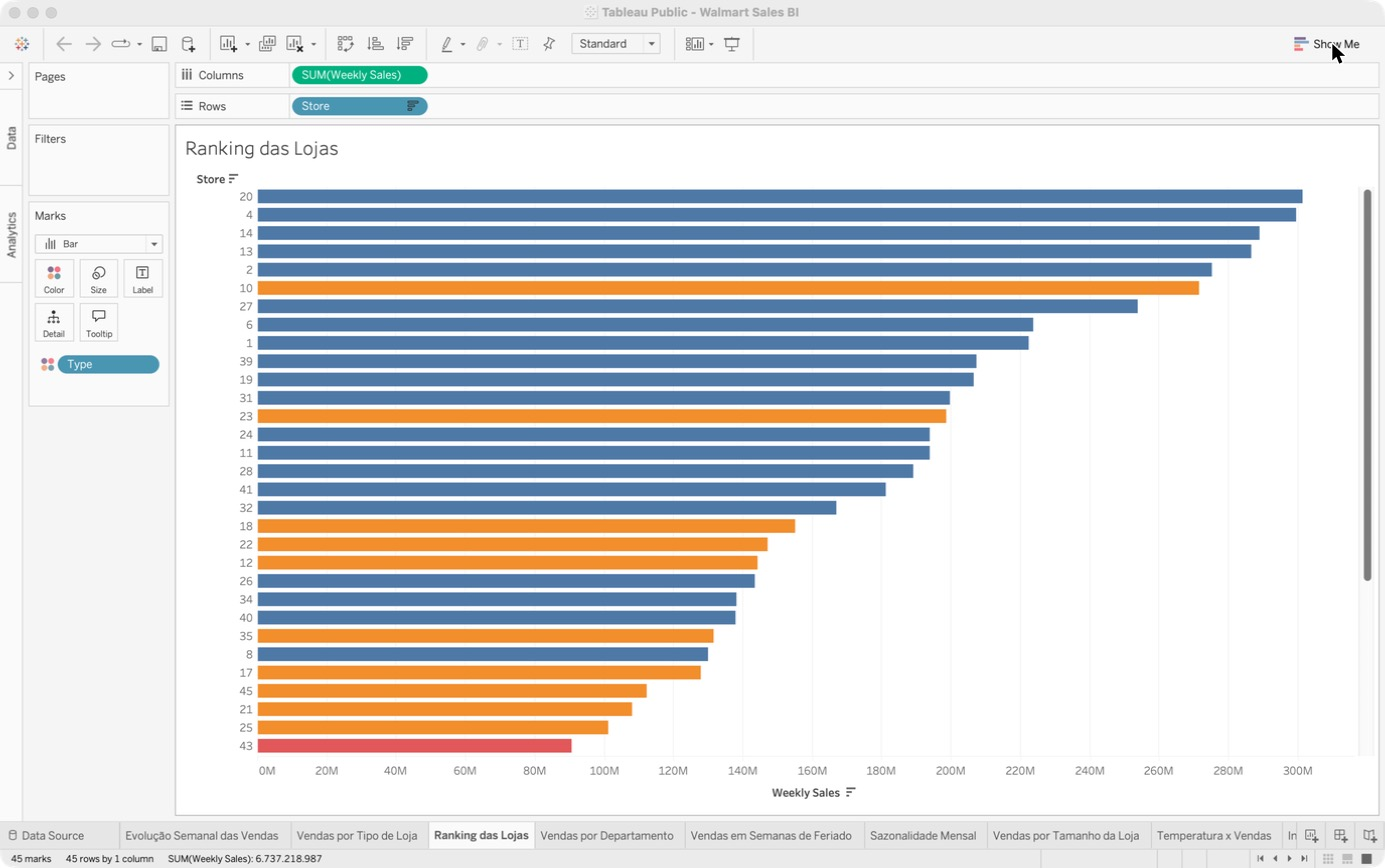
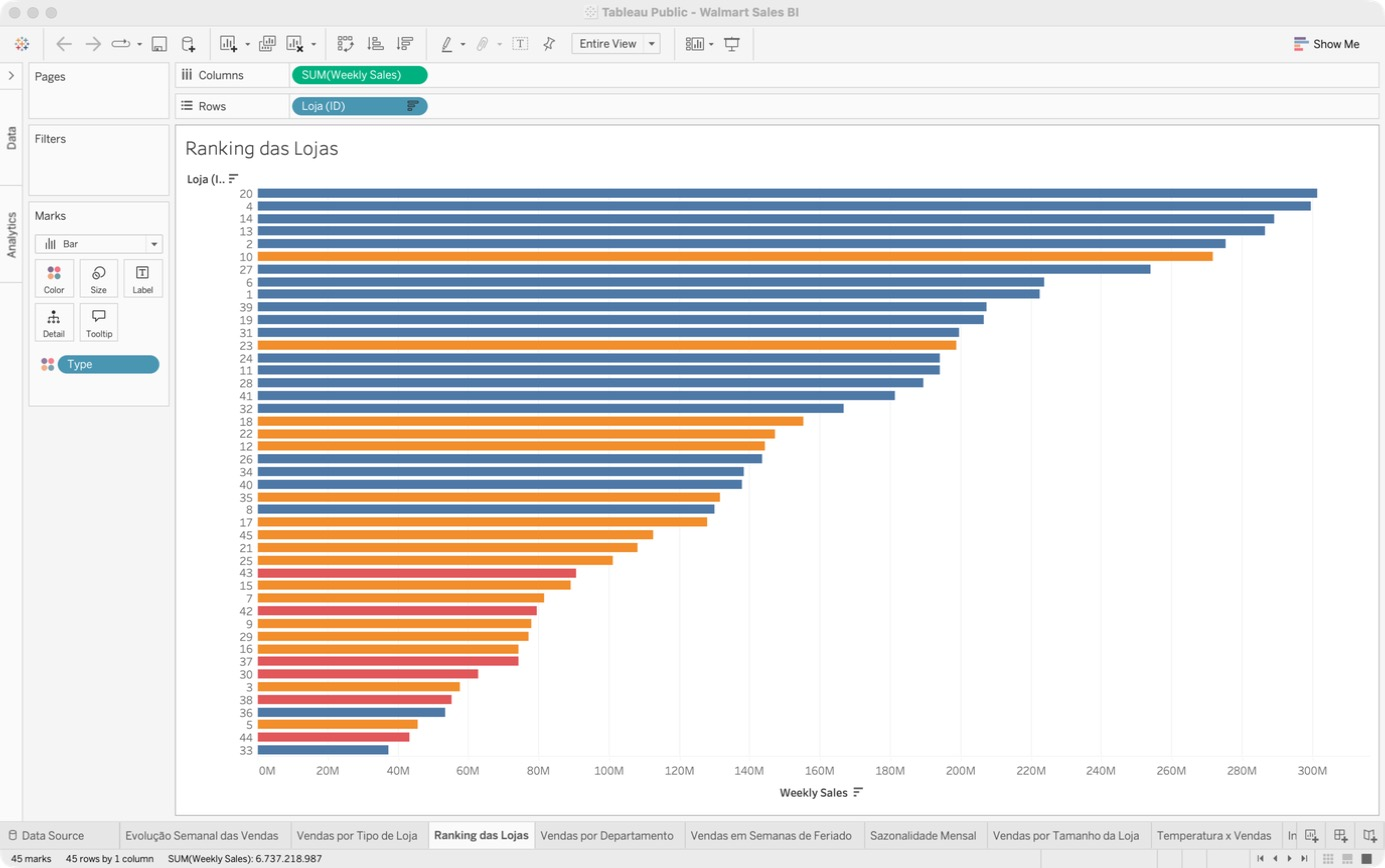
Feedback do grupo: IDs nos eixos, ranking inteiro na tela e tamanho em m²
- Store e Dept passam a aparecer como 'Loja (ID)' e 'Departamento (ID)'
- Ranking das Lojas em Entire View: as 45 lojas cabem sem rolagem
- Tamanho da loja convertido de pés² para m² (campo calculado)
- gerar_planilhas.py agora recria as planilhas geradas a cada execução
- prints e insights atualizados

diff --git a/docs/insights.md b/docs/insights.md
@@ -3,11 +3,13 @@
 Na mesma ordem do documento de insights do grupo, para colar lá. Os números vêm de `analises/explorar.py` e batem com as planilhas do Tableau.
 
 ## Ranking das lojas
+- O número de cada loja é o **ID** dela na base, não a posição no ranking. O gráfico ordena as 45 lojas por vendas.
 - A loja 20 (US$ 301 mi) vende **8,1 vezes** mais que a loja 33 (US$ 37 mi).
-- O top 5 (lojas 20, 4, 14, 13 e 2) é todo de lojas **tipo A** com mais de 200 mil pés².
-- Anomalia: as lojas 33 e 36 são classificadas como tipo A, mas têm cerca de 40 mil pés² e estão entre as que menos vendem. O "tipo" não é só uma faixa de tamanho.
+- O top 5 (lojas 20, 4, 14, 13 e 2) é todo de lojas **tipo A** com cerca de 19 mil m².
+- Anomalia: as lojas 33 e 36 são classificadas como tipo A, mas têm cerca de 3,7 mil m² e estão entre as que menos vendem. O "tipo" não é só uma faixa de tamanho.
 
 ## Vendas por departamento
+- O número é o **ID** do departamento. São 81 departamentos, com IDs que vão até 99.
 - O faturamento é concentrado: **10 dos 81 departamentos fazem 46%** das vendas, e 20 fazem 68%.
 - Os maiores são os departamentos 92 (7,2%), 95 (6,7%) e 38 (5,8%).
 - A base não diz o que cada departamento vende (são só números), e isso é uma limitação para a interpretação.
@@ -35,6 +37,7 @@ Média de vendas da rede inteira por semana:
 
 ## Vendas por tamanho da loja
 - O tamanho é o fator que mais se relaciona com as vendas: **correlação de 0,81**.
+- O tamanho está em **m²**, convertido de pés² (× 0,0929). A base não documenta a unidade do campo `Size`; pés² é a suposição que bate com o porte de um Walmart nos EUA.
 - No gráfico as três faixas aparecem bem separadas: C pequenas, B médias e A grandes.
 - Por isso as outras variáveis precisam ser comparadas **dentro de cada loja**, senão o tamanho domina tudo. É o que o campo "Vendas vs. média da loja" faz.
 

diff --git a/README.md b/README.md
@@ -36,7 +36,7 @@ uv run analises/explorar.py
 | Vendas por departamento | Barras (Pareto) | Feito | 10 dos 81 departamentos fazem 46% das vendas, e 20 fazem 68% |
 | Semanas de feriado | Barras comparativas | Feito | Feriado tem média 8% maior, mas só por causa do Thanksgiving. Super Bowl e Labor Day ficam na média, e a semana de Natal marcada como feriado fica abaixo dela |
 | Sazonalidade mensal | Mapa de calor ano × mês | Feito | Dezembro é cerca de 22% acima da média, janeiro é o pior mês, e o padrão se repete nos três anos |
-| Tamanho da loja | Dispersão | Feito | Correlação de 0,81: é o fator que mais explica as vendas |
+| Tamanho da loja | Dispersão (tamanho em m²) | Feito | Correlação de 0,81: é o fator que mais explica as vendas |
 | Temperatura × vendas | Dispersão | Feito | Quase nenhuma relação (−0,11 dentro de cada loja) |
 | Indicadores econômicos × vendas | Dispersão | Feito | Combustível, CPI e desemprego ficam com correlação perto de zero |
 | MarkDowns × vendas | Exploratória | Feito | Só cerca de 30% das loja-semanas têm o dado, e só a partir de nov/2011. MD1 e MD5 têm correlação de 0,55 e 0,60, mas dentro de cada loja isso some. Só o MD3 (+0,41) se mantém, porque acompanha o fim do ano |
